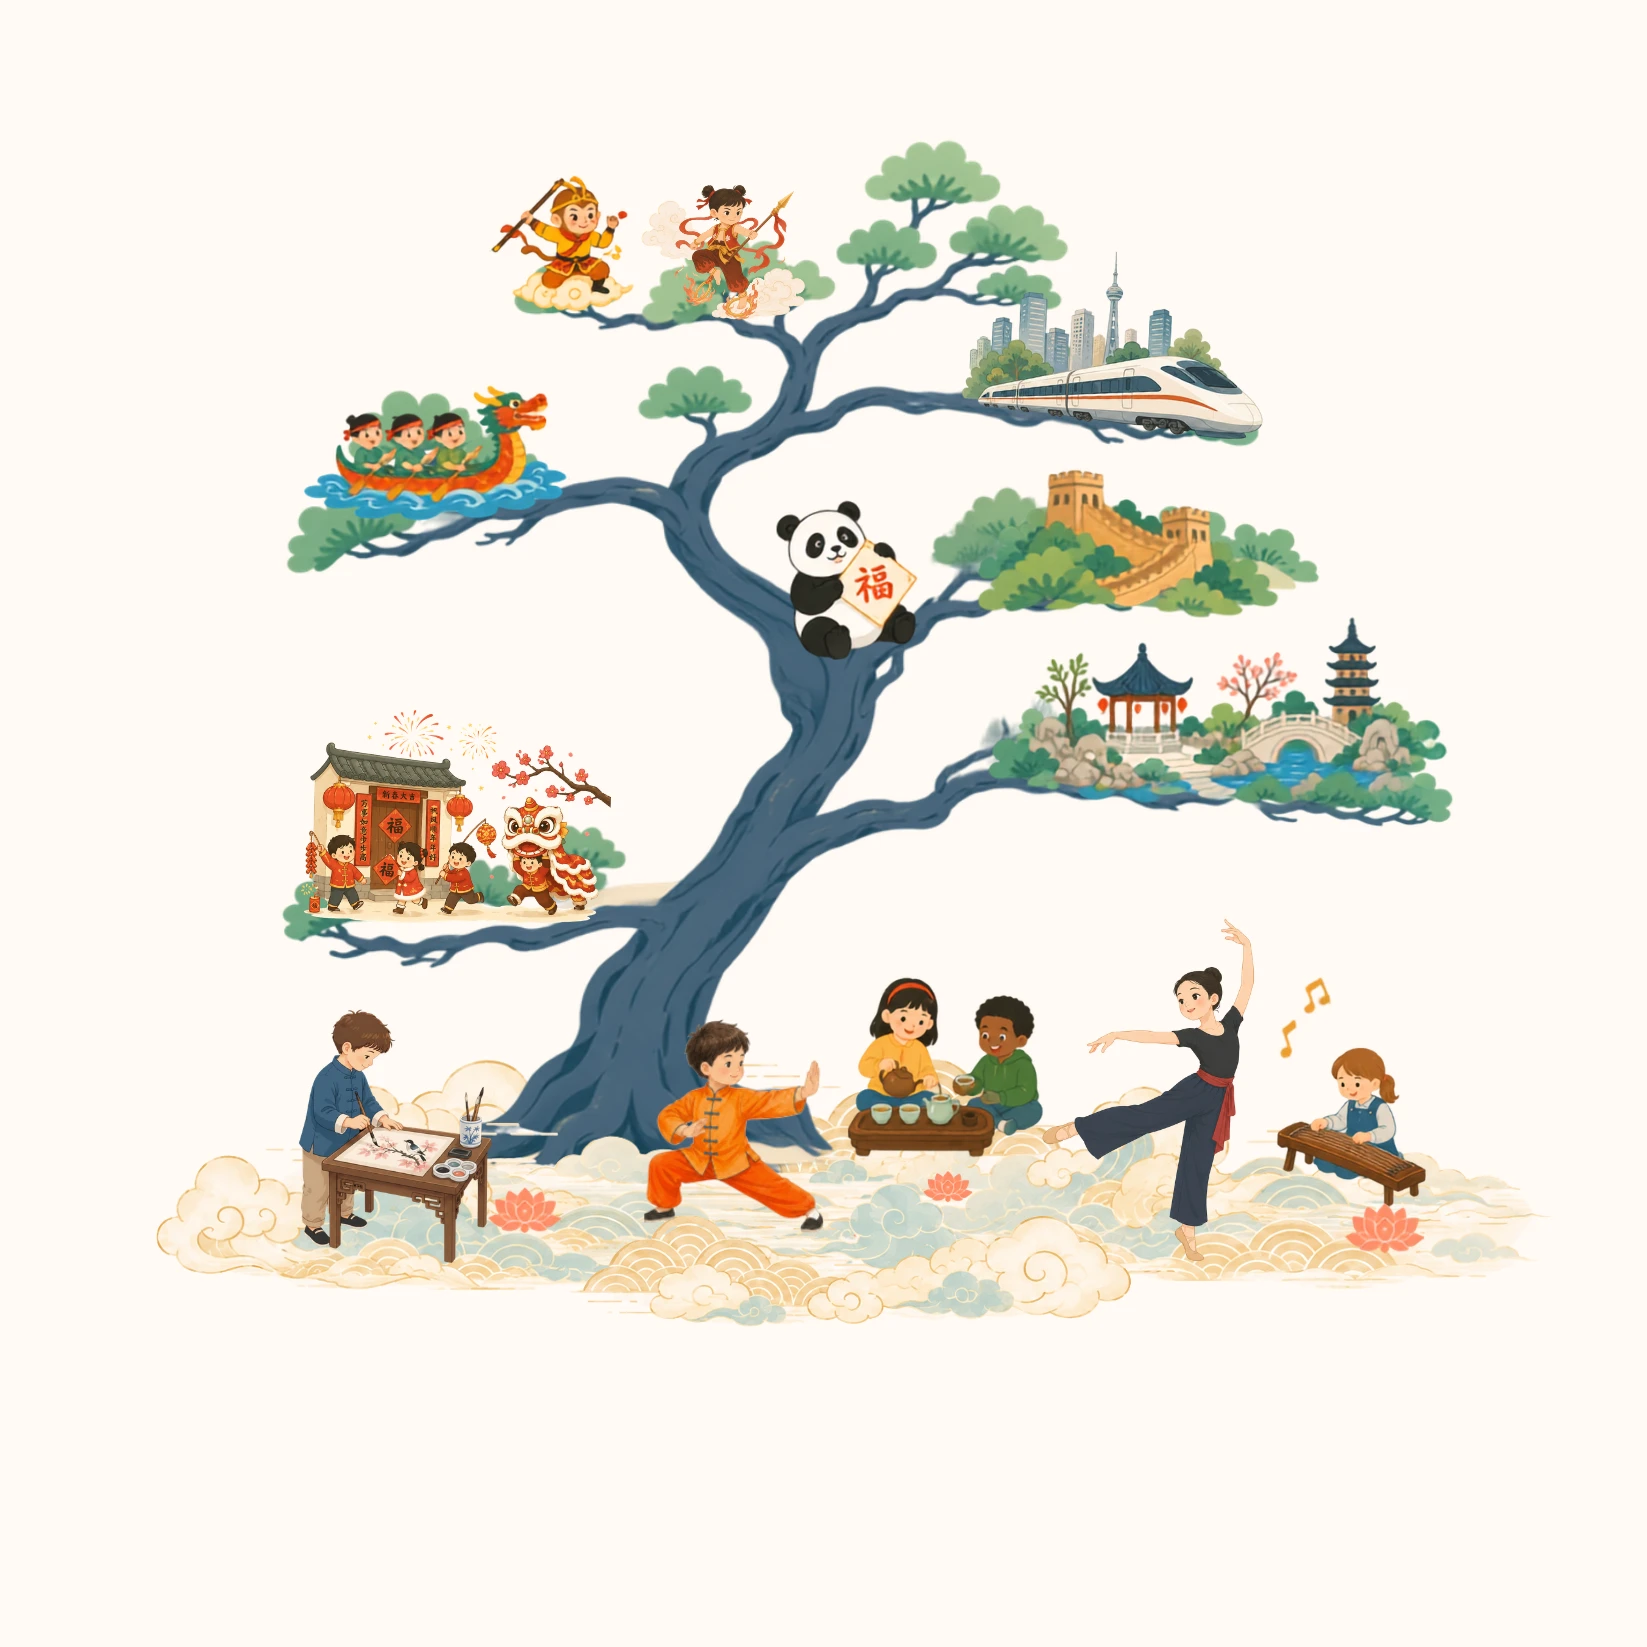
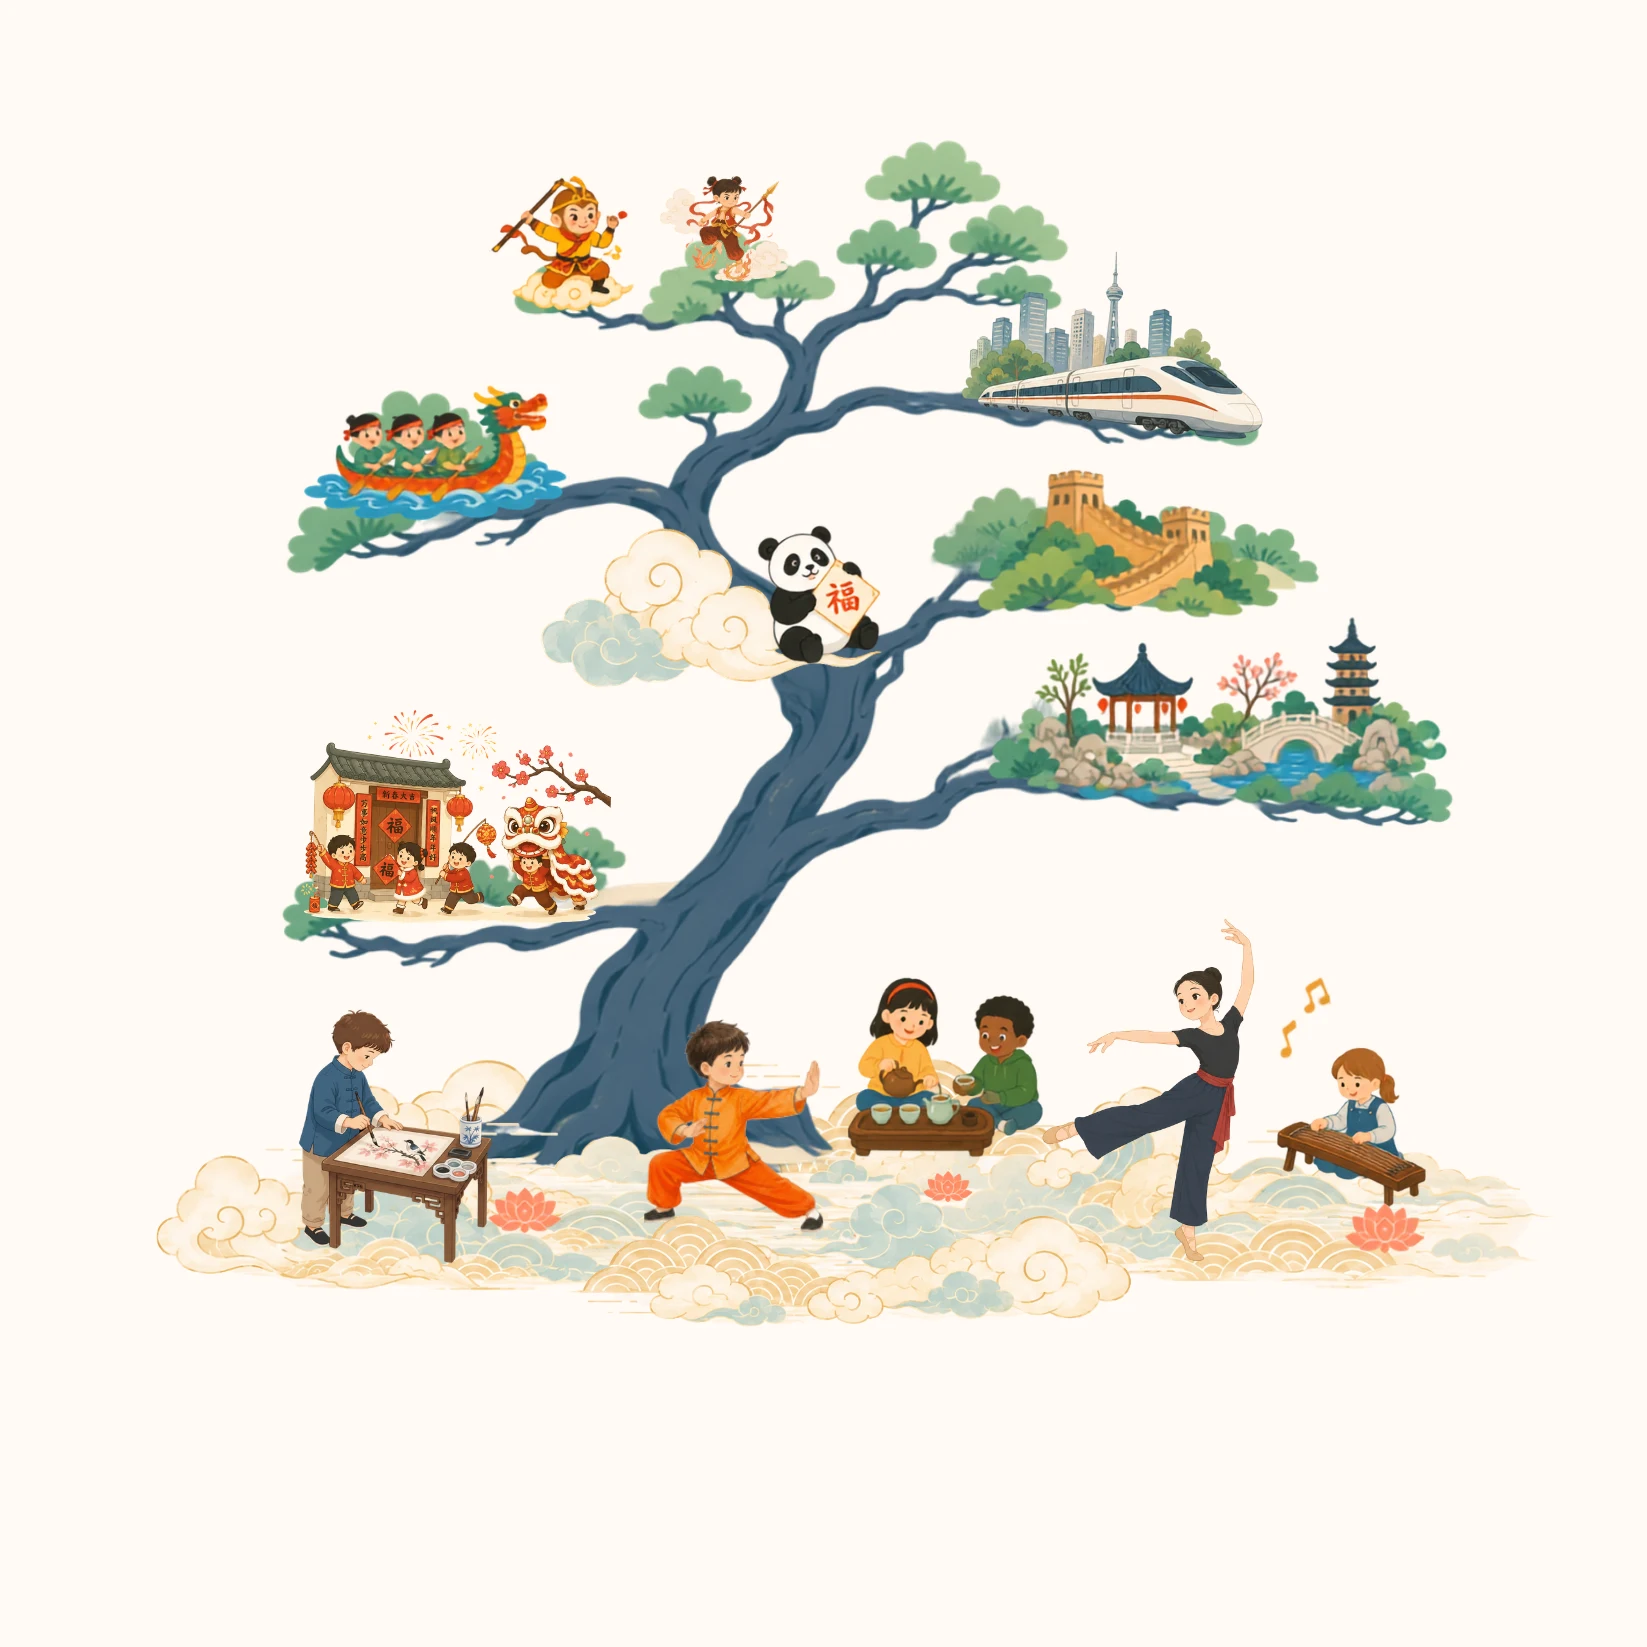
fews

Changed region(s): [[0.3097, 0.3097, 0.5574, 0.4335], [0.3716, 0.0929, 0.4954, 0.2168]]

diff --git a/index.html b/index.html
@@ -89,57 +89,49 @@
           <div class="container">
             <div class="row">
 
-              <div class="col-3 col-12-medium">
-
-                <!-- Box -->
+              <div class="col-3 col-12-medium col-12-small">
                   <section class="box box-pink feature">
                     <div class="inner image-button-wrapper">
-                      <img src="images/sproutpack.webp" alt="点击注册">
+                      <img src="images/sproutpack.webp" alt="Sprout Pack">
                       <a href="sprout_pack_en.html" class="image-button">Sprout Pack</a>
-                    </div>
-                    
+                    </div>                   
                   </section>
-
               </div>
-              <div class="col-3 col-12-medium">
 
-                <!-- Box -->
-                  <section class="box box-yellow feature">
-          
+              <div class="col-3 col-12-medium col-12-small">
+                  <section class="box box-yellow feature">         
                     <div class="inner image-button-wrapper">
-                      <img src="images/bookshelf.webp" alt="图书馆照片">
+                      <img src="images/bookshelf.webp" alt="Chinese Bookshelf">
                       <a href="chinese_bookshelf_en.html" class="image-button">Chinese Bookshelf</a>
                     </div>
                   </section>
-
               </div>
-              <div class="col-3 col-12-medium">
 
-                <!-- Box -->
+              <div class="col-3 col-12-medium col-12-small">
                   <section class="box box-pink feature">
                     <div class="inner image-button-wrapper">
-                      <img src="images/storytime.webp" alt="点击注册">
+                      <img src="images/storytime.webp" alt="Bilingual Storytime">
                       <a href="story_times_en.html" class="image-button">Bilingual Storytime</a>
                     </div>
                     
                   </section>
 
               </div>
-              <div class="col-3 col-6-medium col-12-small">
 
-                <!-- Box -->
+              <div class="col-3 col-6-medium col-12-small">
                   <section class="box box-pink feature">
                     <div class="inner image-button-wrapper">
-                      <img src="images/cultureevents.webp" alt="点击注册">
+                      <img src="images/cultureevents.webp" alt="culture events">
                       <a href="culture_events_en.html" class="image-button">Culture Events</a>
                     </div>
-                    
                   </section>
-
               </div>
+
             </div>
           </div>
         </div>
+
+
 
 
       <div id="main-wrapper-index-recentNews">
